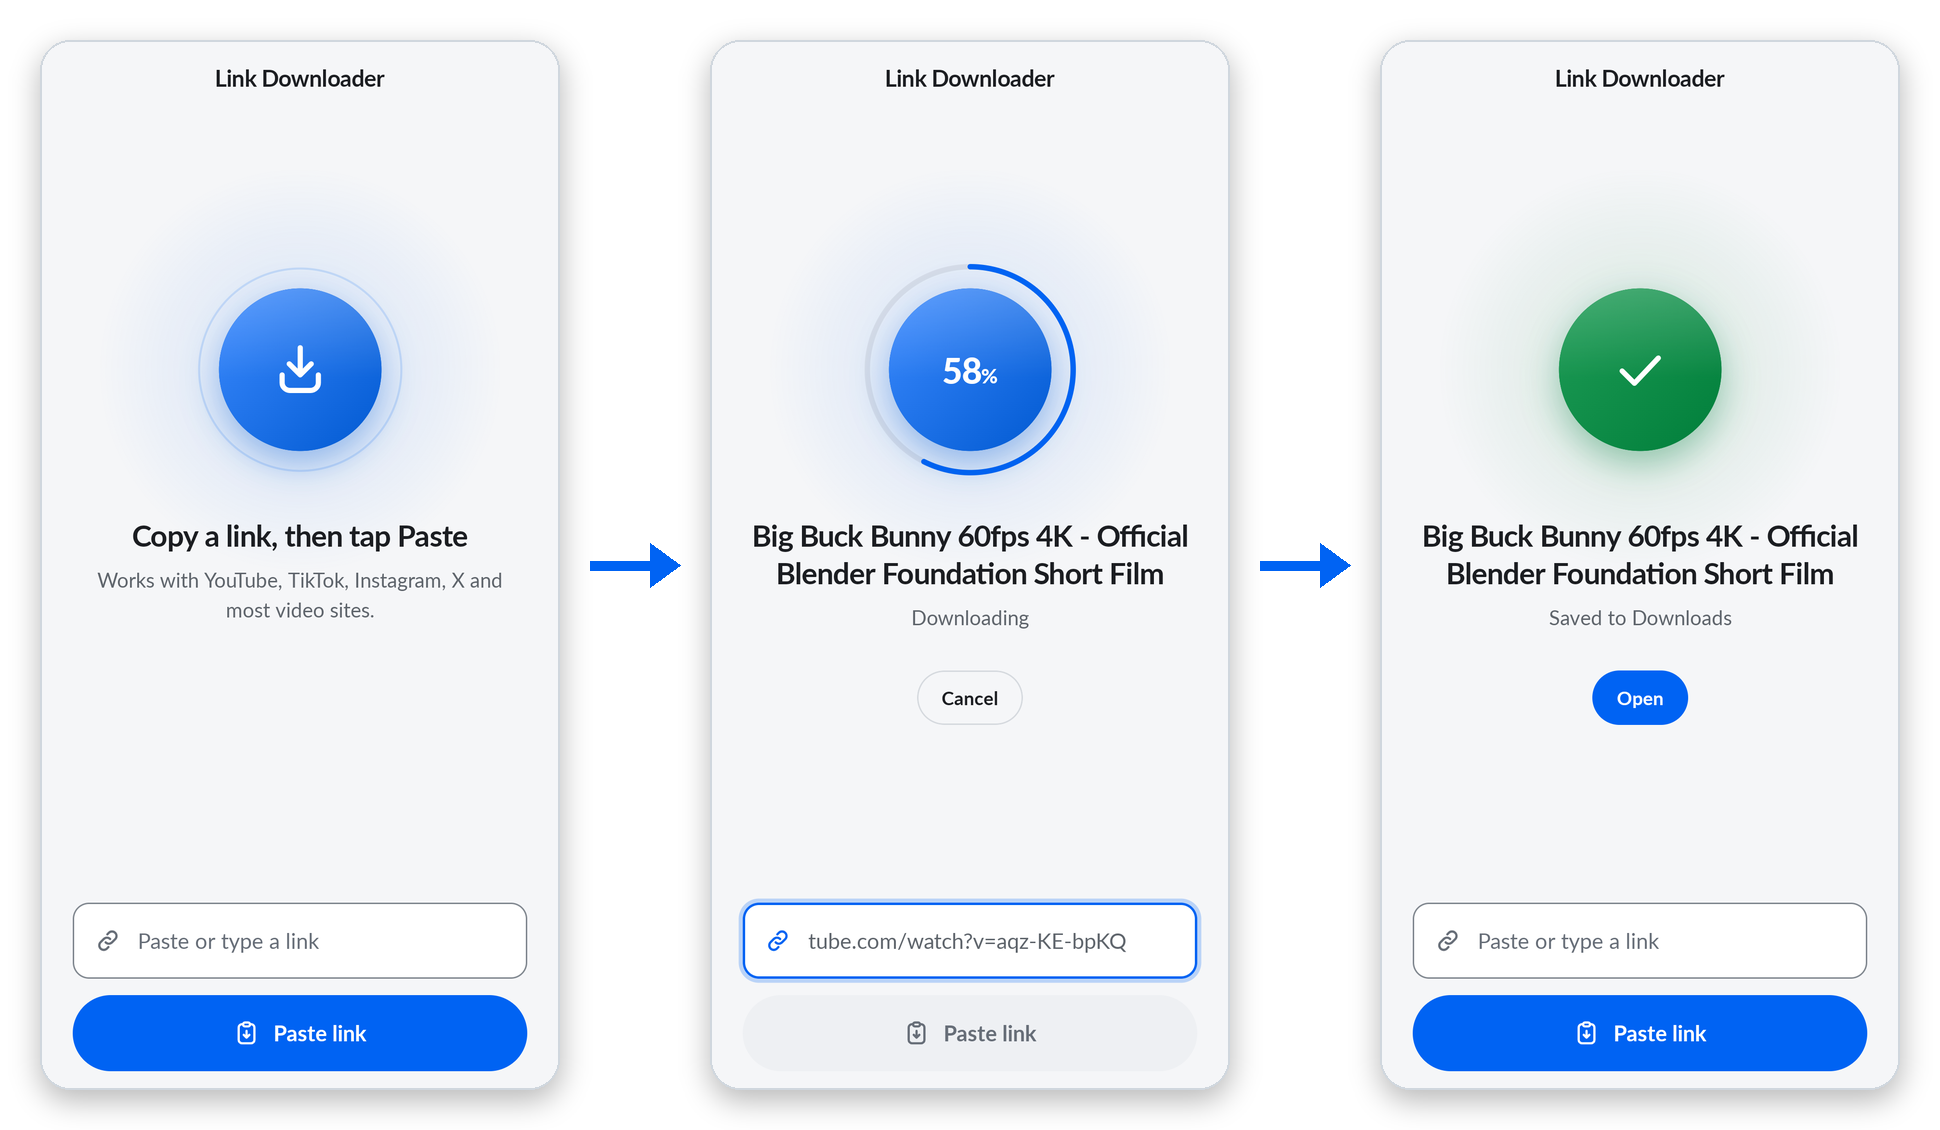
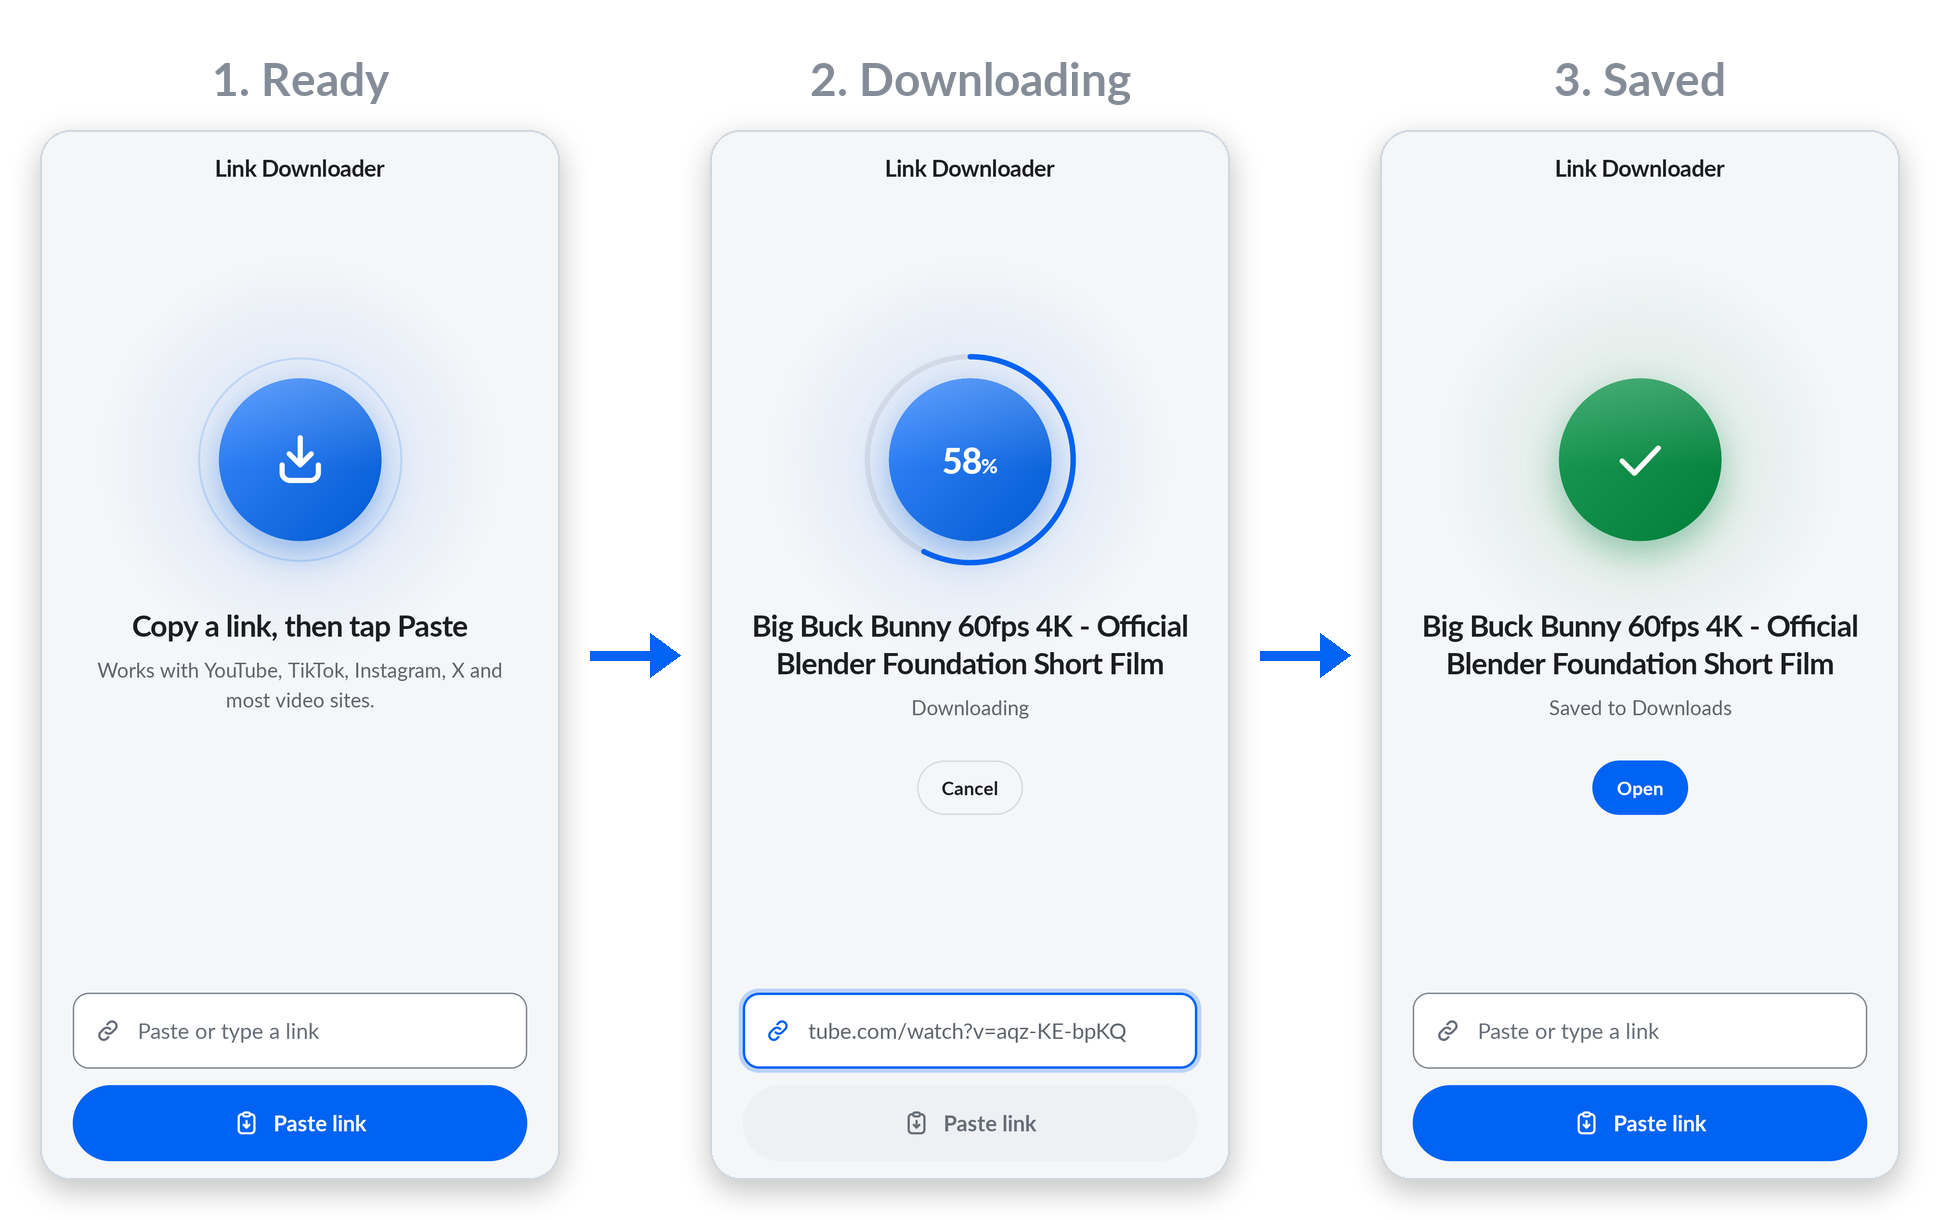
docs(readme): show every state in light mode as even-sized composed images

diff --git a/README.md b/README.md
@@ -48,25 +48,24 @@ under the video's own title, where your gallery, Files app and video player alre
 4. **Open it.** When the video is saved the orb turns green, the phone gives a light tick, and
    **Open** plays it. The field empties itself, ready for the next link.
 
-| 1. Ready | 2. Downloading | 3. Saved |
-|:---:|:---:|:---:|
-| <img src="docs/images/screen-light-idle.png" alt="The ready screen: a blue orb with a download arrow, the line Copy a link, then tap Paste, the sites it works with, and the link field with the Paste link button at the bottom" width="230"> | <img src="docs/images/screen-light-downloading.png" alt="Downloading: a progress ring around the orb at 58 percent, the video's title, the word Downloading and a Cancel button; the Paste link button is disabled" width="230"> | <img src="docs/images/screen-light-saved.png" alt="Saved: a green orb with a check, the video's title, Saved to Downloads and a blue Open button; the link field is empty again" width="230"> |
-| Copy a link anywhere, then tap **Paste link**. | The title appears as soon as it is known; **Cancel** stops the download and deletes its partial files. | The file is in `Downloads/`, named after the video. **Open** plays it. |
+The three screens at the top of this page are those steps: ready, downloading, saved.
 
 ## Every state of the screen
 
 There is only one screen, so everything the app can tell you happens in the same place: the orb
 changes colour, and the words under it always say the same thing in plain language.
 
-| Reading the link | Downloading | Saved |
-|:---:|:---:|:---:|
-| <img src="docs/images/screen-dark-reading.png" alt="Dark theme: an arc turns around the orb while the arrow drops into the tray, with the line Reading the link, Getting the video's details, and Cancel" width="230"> | <img src="docs/images/screen-dark-downloading.png" alt="Dark theme: the progress ring and percentage inside the orb, the video's title, Downloading and Cancel" width="230"> | <img src="docs/images/screen-dark-saved.png" alt="Dark theme: the green saved orb with a check, the title, Saved to Downloads and Open" width="230"> |
-| yt-dlp is looking up the video. An arc turns and the arrow drops into the tray. | The ring fills, never backwards. A post with several videos also says "2 of 3". | Green with a check and one ripple. |
+![Four screens in the light theme: Reading the link, with an arc turning around the orb and a Cancel button; Already saved, with a green check, the title Me at the zoo, Already in your Downloads, and the buttons Download again and Open; Failed, with a red orb, Link not supported and one plain sentence; and the About sheet over the screen, showing the app version 1.0.0, the yt-dlp version 2026.10.26 and an Update yt-dlp button](docs/images/states.png)
 
-| Already saved | Failed | About |
-|:---:|:---:|:---:|
-| <img src="docs/images/screen-light-already-saved.png" alt="Light theme: the green orb, the title Me at the zoo, Already in your Downloads, and two buttons, Download again and Open" width="230"> | <img src="docs/images/screen-dark-failed.png" alt="Dark theme: a red orb with an exclamation mark, Link not supported, This link doesn't lead to a video that can be saved" width="230"> | <img src="docs/images/screen-dark-about.png" alt="Dark theme: a bottom sheet over the screen showing the app version 1.0.0, the yt-dlp version 2026.10.26 and an Update yt-dlp button" width="230"> |
-| Pasting the link you just saved does not make a duplicate. **Download again** saves a second copy on purpose. | A short title and one plain sentence; never a raw error. **Try again** appears when the problem may pass. | Long-press the title bar to see the app and yt-dlp versions and to update yt-dlp by hand. |
+- **Reading the link:** yt-dlp is looking up the video. An arc turns and the arrow drops into the
+  tray. Then the ring fills with the percentage, never backwards; a post with several videos also
+  says "2 of 3".
+- **Already saved:** pasting the link you just saved does not make a duplicate. **Download again**
+  saves a second copy on purpose.
+- **Failed:** a short title and one plain sentence, never a raw error. **Try again** appears when
+  the problem may pass (see [When a download fails](#when-a-download-fails)).
+- **About:** long-press the title bar to see the app and yt-dlp versions and to update yt-dlp by
+  hand.
 
 **Posts with several videos.** When a link leads to a post with more than one video (an X post with
 two clips, an Instagram carousel), a sheet shows a thumbnail and the length of each one, all
@@ -78,7 +77,7 @@ asks you to choose.
 of text meets WCAG AA contrast, checked by a unit test. With the phone's animations turned off,
 every animation stays still.
 
-![The ready screen in the light theme and in the dark theme, side by side](docs/images/themes.png)
+<p align="center"><img src="docs/images/themes.png" alt="The ready screen in the light theme and in the dark theme, side by side" width="480"></p>
 
 ## What gets saved
 
